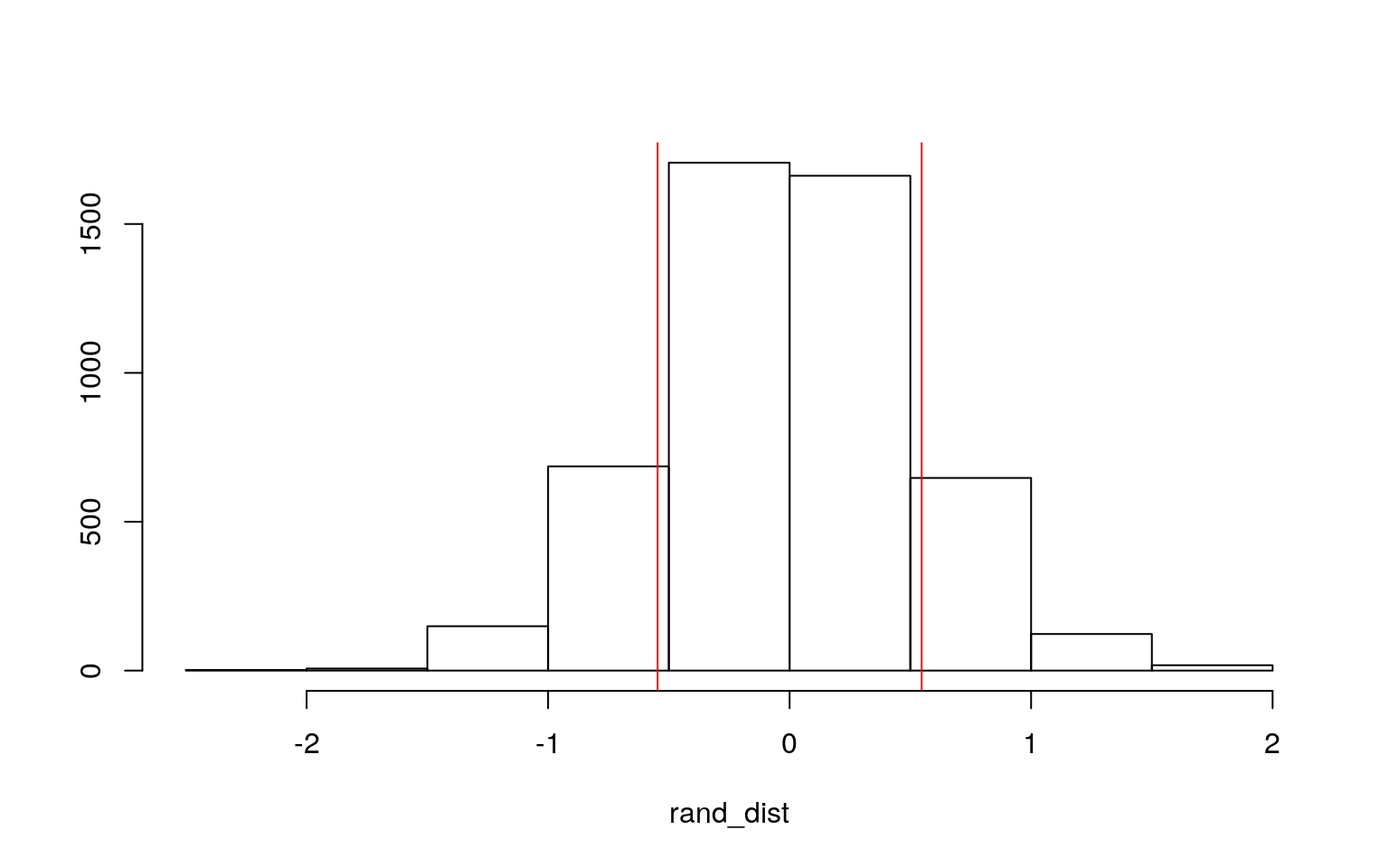
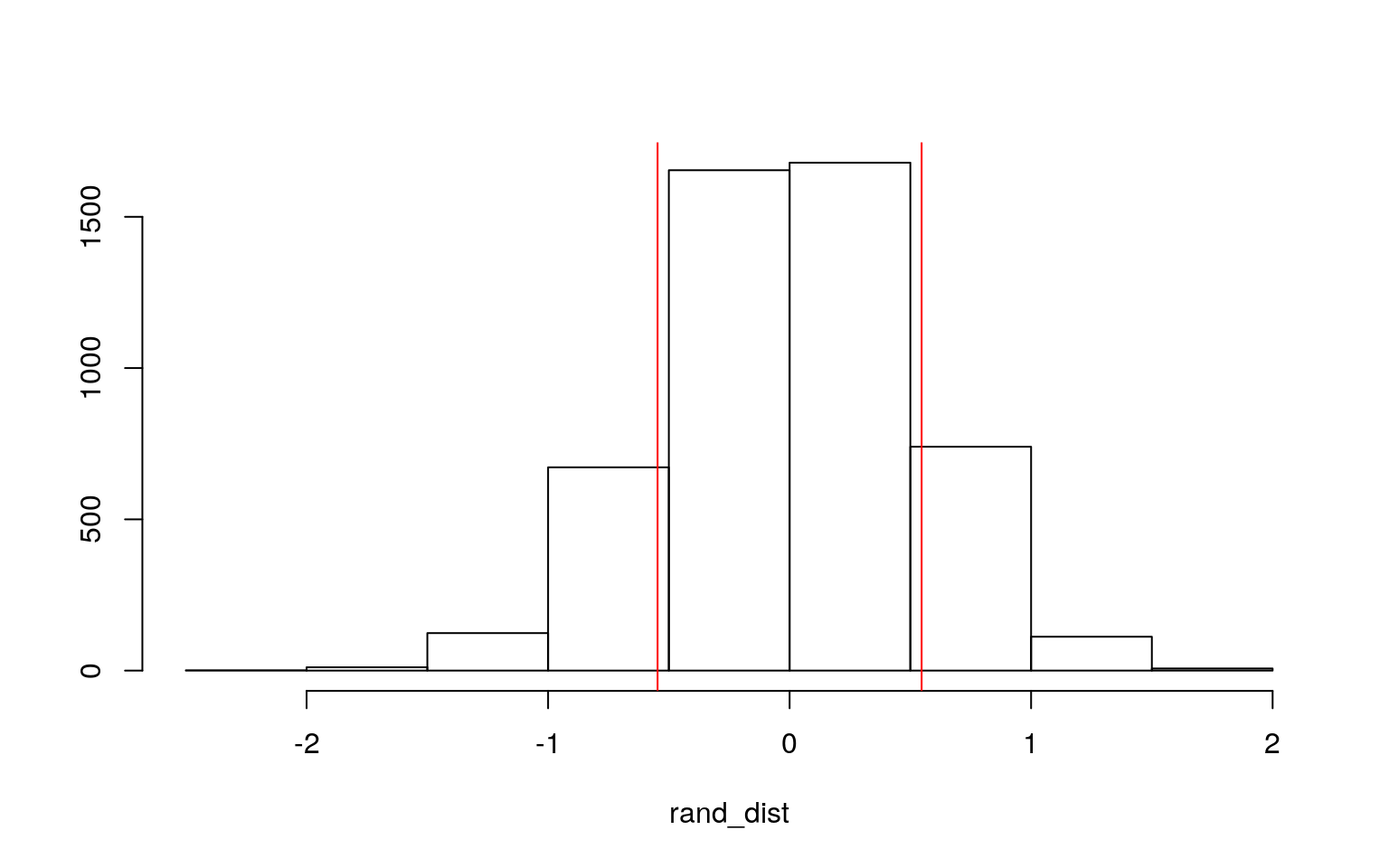
some message

diff --git a/project/project1/index.html b/project/project1/index.html
@@ -60,7 +60,7 @@
  
 <div class="blog-title">
           <h4>
-         January 1, 0001 
+         April 3, 2021 
             &nbsp;&nbsp;
             
           </h4>
@@ -74,9 +74,16 @@
 
 <pre class="r"><code>knitr::opts_chunk$set(echo = TRUE, eval = TRUE, fig.align = &quot;center&quot;, warning = F, message = F,
 tidy=TRUE, tidy.opts=list(width.cutoff=60), R.options=list(max.print=100))</code></pre>
-<p><strong>0. Introduction</strong></p>
-<p><em>For this project, I chose to work with two datasets. The first dataset is called netflix and it is composed of 50 days of my Netflix viewing history compiled into three columns: Date, Genre, and Run-time. They were acquired from the Netflix website through their download history function; however, the genres assigned to each of the observations were determined by the genre tags that Netflix auto-assigned them. The second dataset is called weather and it is composed of 50 days worth of temperature readings compiled into four columns: date, the maximum temperature of a day (Max), the minimum temperature of a day (Min), and the average temperature of a day (Daily_Average). This data was acquired from the National Weather Service Forecast Office’s online weather database. I thought these datasets were interesting because I think that the weather outside influences how likely you are to prefer to stay inside to watch movies and TV shows. Additionally, I always felt like someone who watches content according to their mood and the weather. When it’s rainy and cold outside, I think that I tend to watch more solemn themed movies and TV shows. By working with these datasets, I think I’ll be able to shed some light into my own viewing habits as they relate to the weather.</em></p>
-<p><strong>1. Tidying: Rearranging Wide/Long</strong></p>
+<p><br></p>
+<div id="introduction" class="section level4">
+<h4>0. Introduction</h4>
+<p><br></p>
+<p><strong>For this project, I chose to work with two datasets. The first dataset is called netflix and it is composed of 50 days of my Netflix viewing history compiled into three columns: Date, Genre, and Run-time. They were acquired from the Netflix website through their download history function; however, the genres assigned to each of the observations were determined by the genre tags that Netflix auto-assigned them. The second dataset is called weather and it is composed of 50 days worth of temperature readings compiled into four columns: date, the maximum temperature of a day (Max), the minimum temperature of a day (Min), and the average temperature of a day (Daily_Average). This data was acquired from the National Weather Service Forecast Office’s online weather database. I thought these datasets were interesting because I think that the weather outside influences how likely you are to prefer to stay inside to watch movies and TV shows. Additionally, I always felt like someone who watches content according to their mood and the weather. When it’s rainy and cold outside, I think that I tend to watch more solemn themed movies and TV shows. By working with these datasets, I think I’ll be able to shed some light into my own viewing habits as they relate to the weather.</strong></p>
+<p><br></p>
+</div>
+<div id="tidying-rearranging-widelong" class="section level4">
+<h4>1. Tidying: Rearranging Wide/Long</h4>
+<p><br></p>
 <pre class="r"><code>library(tidyverse)</code></pre>
 <pre><code>## ── Attaching packages ─────────────────────────────────────── tidyverse 1.3.0 ──</code></pre>
 <pre><code>## ✓ ggplot2 3.3.3     ✓ purrr   0.3.4
@@ -111,11 +118,21 @@ un_netflix &lt;- netflix %&gt;% pivot_wider(names_from=&quot;Type&quot;,values_f
 ## * Use `values_fn = length` to identify where the duplicates arise
 ## * Use `values_fn = {summary_fun}` to summarise duplicates</code></pre>
 <pre class="r"><code>netflix1 &lt;- un_netflix %&gt;% pivot_longer(-1, names_to=&quot;Type&quot;, values_to=&quot;Run-time&quot;) %&gt;% slice(-(2:10), (-(12:19)), (-(21:27)), (-(21:27)), (-(29:36)), (-(38:45)), (-(47:56)), (-(58:65)), (-(67:72)), (-(74:81)), (-(83:92)), (-(94:101)), (-(103:110)), (-(112:119)), (-(121:127)), (-(129:138)), (-(140:148)), (-(150:156)), (-(158:166)), (-(168:175)), (-(177:184)), (-(186:193)), (-(195:203)), (-(205:209)), (-(211:217)), (-(219:227)), (-(229:237)), (-(239:249)), (-(251:256)), (-(258:262)), (-(264:277)), (-(279:280)), (-(282:290)), (-(292:299)), (-(301:309)), (-(311:322)), (-(324:331)), (-(333:339)), (-(341:348)), (-(350:353)), (-(355:361)), (-(363:372)), (-(374:385)), (-(387:388)), (-(390:403)), (-(405:407)), (-(409:417)), (-(419:426)), (-(428:434)), (-(436:444)), (-(446:459))) %&gt;% select(-`Run-time`) %&gt;% rename(Genre = Type)</code></pre>
-<p><em>When I collected my datasets for the weather and my Netflix viewing history, I arranged them so that they would already be tidy once loaded into Rstudio. However, in order to demonstrate that I could tidy my datasets, I decided to untidy my netflix dataset (the untidy version called un_netflix in my RStudio environment) using the pivot_wider function. Once I untidied my netflix dataset, I then retidied it using pivot_longer and then select to take out all of the incomplete pieces from my untidy dataset (the newly tidied dataset is called netflix1 in my Rstudio environment). I also removed the variable Run-time from my netflix dataset because it was causing unnecessary complications within my tidying.</em></p>
-<p><strong>2. Joining/Merging</strong></p>
+<p><br></p>
+<p><strong>When I collected my datasets for the weather and my Netflix viewing history, I arranged them so that they would already be tidy once loaded into Rstudio. However, in order to demonstrate that I could tidy my datasets, I decided to untidy my netflix dataset (the untidy version called un_netflix in my RStudio environment) using the pivot_wider function. Once I untidied my netflix dataset, I then retidied it using pivot_longer and then select to take out all of the incomplete pieces from my untidy dataset (the newly tidied dataset is called netflix1 in my Rstudio environment). I also removed the variable Run-time from my netflix dataset because it was causing unnecessary complications within my tidying.</strong></p>
+<p><br></p>
+</div>
+<div id="joiningmerging" class="section level4">
+<h4>2. Joining/Merging</h4>
+<p><br></p>
 <pre class="r"><code>bigboy &lt;- weather1 %&gt;% left_join(netflix1, by=&quot;Date&quot;) %&gt;% na.omit()</code></pre>
-<p><em>For this part of the project, I decided to join my netflix dataset and my weather dataset by using their date columns as their joining variable. The reason I chose dates to be the joining variable is because all of the observations I had utilized unique dates. There were no repeating dates in either of my datasets. I designed it that way because it would help make the joining process of my datasets easier to do. Moreover, I also thought that it made sense to separate my variables of temperature (max, min, and daily average) and show/movie genre by date. Furthermore, I chose to do a left_join because it keeps all of the rows from the first dataset, weather, and then adds in date matches from the second dataset, netflix. And when there were any rows in the weather dataset that didn’t have a match from the netflix dataset, the left_join automatically gave them an NA value. This let me omit the NAs from my final joined dataset once they were combined.</em></p>
-<p><strong>3.Wrangling</strong></p>
+<p><br></p>
+<p><strong>For this part of the project, I decided to join my netflix dataset and my weather dataset by using their date columns as their joining variable. The reason I chose dates to be the joining variable is because all of the observations I had utilized unique dates. There were no repeating dates in either of my datasets. I designed it that way because it would help make the joining process of my datasets easier to do. Moreover, I also thought that it made sense to separate my variables of temperature (max, min, and daily average) and show/movie genre by date. Furthermore, I chose to do a left_join because it keeps all of the rows from the first dataset, weather, and then adds in date matches from the second dataset, netflix. And when there were any rows in the weather dataset that didn’t have a match from the netflix dataset, the left_join automatically gave them an NA value. This let me omit the NAs from my final joined dataset once they were combined.</strong></p>
+<p><br></p>
+</div>
+<div id="wrangling" class="section level4">
+<h4>3.Wrangling</h4>
+<p><br></p>
 <pre class="r"><code>bigboy %&gt;% group_by(Genre) %&gt;% summarize(overall_avg=mean(Daily_Average, na.rm=T))</code></pre>
 <pre><code>## `summarise()` ungrouping output (override with `.groups` argument)</code></pre>
 <pre><code>## # A tibble: 8 x 2
@@ -166,7 +183,9 @@ un_netflix &lt;- netflix %&gt;% pivot_wider(names_from=&quot;Type&quot;,values_f
 ## 4 12/15/20    62    31          46.5 Anime
 ## 5 12/1/20     65    22          43.5 Anime
 ## 6 1/11/21     50    28          39   Anime</code></pre>
-<p><em>The first code groups the data by genre and then creates an overall average temperature of the daily average temperatures for the cases that fall under the 8 different genres. The code following that one groups the data by genre. After that, I created a new column called Temp_difference which contained the maximum temperature of the day minus the minimum temperature of the day. Once I calculated the differences in temperature for each observation, I used summarize to calculate the median temperature differences for each of the 8 different genres. And for the last two pieces of code, I used group_by to group the data by genre. After that, I used filter to narrow down my observations to ones that fall under the anime genre. I chose the filter genre specification to be anime because it had the most counts in my dataset which meant that I consumed a lot of anime media. Once I filtered for anime, I also specified the filter to look at the average daily temperatures that were less than 50 or greater than 70. I wanted to see if I consumed anime often on days that were either considerably colder or hotter (since cold weather and hot weather force us to be indoors). Afterwards, I arranged the resultant data by descending average daily temperature. As it turns out, of the original 13 observations I have for watching anime, only 6 of them fall within my filter requirements for having a daily average temperature less than 50 or greater than 70. This indicates the weather coldness vs warmness doesn’t seem to affect my anime viewing habits based off of this filtration.</em></p>
+<p><br></p>
+<p><strong>The first code groups the data by genre and then creates an overall average temperature of the daily average temperatures for the cases that fall under the 8 different genres. The code following that one groups the data by genre. After that, I created a new column called Temp_difference which contained the maximum temperature of the day minus the minimum temperature of the day. Once I calculated the differences in temperature for each observation, I used summarize to calculate the median temperature differences for each of the 8 different genres. And for the last two pieces of code, I used group_by to group the data by genre. After that, I used filter to narrow down my observations to ones that fall under the anime genre. I chose the filter genre specification to be anime because it had the most counts in my dataset which meant that I consumed a lot of anime media. Once I filtered for anime, I also specified the filter to look at the average daily temperatures that were less than 50 or greater than 70. I wanted to see if I consumed anime often on days that were either considerably colder or hotter (since cold weather and hot weather force us to be indoors). Afterwards, I arranged the resultant data by descending average daily temperature. As it turns out, of the original 13 observations I have for watching anime, only 6 of them fall within my filter requirements for having a daily average temperature less than 50 or greater than 70. This indicates the weather coldness vs warmness doesn’t seem to affect my anime viewing habits based off of this filtration.</strong></p>
+<p><br></p>
 <pre class="r"><code>bigboy %&gt;% select(Date, Genre, Daily_Average) %&gt;% group_by(Genre) %&gt;% summarize(n_distinct(Daily_Average))</code></pre>
 <pre><code>## `summarise()` ungrouping output (override with `.groups` argument)</code></pre>
 <pre><code>## # A tibble: 8 x 2
@@ -196,8 +215,13 @@ un_netflix &lt;- netflix %&gt;% pivot_wider(names_from=&quot;Type&quot;,values_f
 ##   Genre   Max   Min
 ##   &lt;int&gt; &lt;int&gt; &lt;int&gt;
 ## 1     0     1     1</code></pre>
-<p><em>My first code selects the columns Date, Genre, and Daily_Average and makes them into their own subset. Afterwards, I used group_by to group the resulting data by genre. Once I grouped them all into the 8 different genres of my dataset, I used the summarize function to figure out how many distinct values of daily average temperatures there were in each genre. So of my 50 daily average temperatures in my dataset, only 3 of them are repeated temperatures and the rest are unique. My second line of code used group_by to group the data by genre. Once I grouped my data, I used summarize_at to calculate the standard deviations of the maximum and minimum daily temperatures for each genre group. I also used na.omit() because the genre crime returned back NAs for the standard deviations of the maximum and minimum temperatures. The reason why it returned back NAs is because there was only one observation with crime as its genre in my dataset. And finally, my last bit of code in this chunk reaffirms that one of the genres, crime, is the only genre with NAs for the maximum temperature and minimum daily temperatures. The rest of the genres did have actual values for their standard deviations.</em></p>
-<p><strong>4.Visualizing</strong></p>
+<p><br></p>
+<p><strong>My first code selects the columns Date, Genre, and Daily_Average and makes them into their own subset. Afterwards, I used group_by to group the resulting data by genre. Once I grouped them all into the 8 different genres of my dataset, I used the summarize function to figure out how many distinct values of daily average temperatures there were in each genre. So of my 50 daily average temperatures in my dataset, only 3 of them are repeated temperatures and the rest are unique. My second line of code used group_by to group the data by genre. Once I grouped my data, I used summarize_at to calculate the standard deviations of the maximum and minimum daily temperatures for each genre group. I also used na.omit() because the genre crime returned back NAs for the standard deviations of the maximum and minimum temperatures. The reason why it returned back NAs is because there was only one observation with crime as its genre in my dataset. And finally, my last bit of code in this chunk reaffirms that one of the genres, crime, is the only genre with NAs for the maximum temperature and minimum daily temperatures. The rest of the genres did have actual values for their standard deviations.</strong></p>
+<p><br></p>
+</div>
+<div id="visualizing" class="section level4">
+<h4>4.Visualizing</h4>
+<p><br></p>
 <pre class="r"><code>library(ggplot2)
 
 cormat2 &lt;- bigboy %&gt;% select_if(is.numeric) %&gt;% cor(use=&quot;pair&quot;)
@@ -211,9 +235,15 @@ tidycor2 %&gt;% ggplot(aes(var1, var2, fill=correlation)) + geom_tile() + geom_t
 <p><img src="../../project/project1_files/figure-html/unnamed-chunk-6-2.png" width="672" /></p>
 <pre class="r"><code>ggplot(bigboy, aes(x = Min, y = Max, color=Genre)) + geom_point() + geom_line() + scale_x_continuous(name = &quot;Min Temperature (Farenheit)&quot;, breaks = seq(0, 100, 10)) + scale_y_continuous(name = &quot;Max Temp (Farenheit)&quot;, breaks = seq(0, 100, 10))  + labs(title = &quot;Max Daily Temp over Min Daily Temp of Genre Observations&quot;) + theme(plot.title = element_text(hjust = 0.5))</code></pre>
 <p><img src="../../project/project1_files/figure-html/unnamed-chunk-6-3.png" width="672" /></p>
-<p><em>For my data visualization portion of the project, I made three different graphs. The first graph I made was a heatmap showing the correlations between my dataset’s numeric variables. The range of the correlation is rather limited as there isn’t really a large departure in terms of temperature values from the maximum, minimum, and daily average numbers (our range of correlations runs from 0.76 to 1). We can see that when a variable is matched to itself (such as maximum temperature to maximum temperature, minimum temperature to minimum temperature, etc), it is perfectly correlated. However, we start to see a little more variation as we pair up particular variables with different ones.The lowest correlation that we have on our heatmap is 0.76 between the maximum daily temperature and the minimum daily temperature. This makes sense when considering that the daily maximum and daily minimum temperatures do tend to vary notably on a day-to-day basis when accounting for the morning/night time shifts in sunlight and so on.</em></p>
-<p><em>My other two visuals focused more on presenting my data in a simple but clear manner. The first one that I made was a barchart comparing the average daily temperatures across the genres of content from my Netflix viewing data. I also included error bars to account for the multiple observations that some of my genres had (with crime being the genre with a single observation). With these chart, we can see that the error bars for the anime, cartoon, comedy, and drama genres all fell within the same margin for average daily temperature; meanwhile, the horror, reality, and suspense genres were all within the same margin for their average daily temperature error bars too. This is interesting because it implies that certain genres may be more frequently viewed at particular average daily temperatures. My second visual was a scatterplot that depicted the genres of all my observations by their minimum and maximum temperatures. The purpose of this plot was to see if there were any trends in the genres watched in relation to the maximum and minimum temperature of that day. For the most part, there doesn’t seem to be an overt relationship between genres and their maximum/minimum daily temperature other than generally high temperatures tend to have relatively higher lower temperatures. </em></p>
-<p><strong>5.Dimensionality Reduction</strong></p>
+<p><br></p>
+<p><strong>For my data visualization portion of the project, I made three different graphs. The first graph I made was a heatmap showing the correlations between my dataset’s numeric variables. The range of the correlation is rather limited as there isn’t really a large departure in terms of temperature values from the maximum, minimum, and daily average numbers (our range of correlations runs from 0.76 to 1). We can see that when a variable is matched to itself (such as maximum temperature to maximum temperature, minimum temperature to minimum temperature, etc), it is perfectly correlated. However, we start to see a little more variation as we pair up particular variables with different ones.The lowest correlation that we have on our heatmap is 0.76 between the maximum daily temperature and the minimum daily temperature. This makes sense when considering that the daily maximum and daily minimum temperatures do tend to vary notably on a day-to-day basis when accounting for the morning/night time shifts in sunlight and so on.</strong></p>
+<p><br></p>
+<p><strong>My other two visuals focused more on presenting my data in a simple but clear manner. The first one that I made was a barchart comparing the average daily temperatures across the genres of content from my Netflix viewing data. I also included error bars to account for the multiple observations that some of my genres had (with crime being the genre with a single observation). With these chart, we can see that the error bars for the anime, cartoon, comedy, and drama genres all fell within the same margin for average daily temperature; meanwhile, the horror, reality, and suspense genres were all within the same margin for their average daily temperature error bars too. This is interesting because it implies that certain genres may be more frequently viewed at particular average daily temperatures. My second visual was a scatterplot that depicted the genres of all my observations by their minimum and maximum temperatures. The purpose of this plot was to see if there were any trends in the genres watched in relation to the maximum and minimum temperature of that day. For the most part, there doesn’t seem to be an overt relationship between genres and their maximum/minimum daily temperature other than generally high temperatures tend to have relatively higher lower temperatures.</strong></p>
+<p><br></p>
+</div>
+<div id="dimensionality-reduction" class="section level4">
+<h4>5.Dimensionality Reduction</h4>
+<p><br></p>
 <pre class="r"><code>library(cluster)
 pam2&lt;-bigboy%&gt;%pam(k=2)</code></pre>
 <pre><code>## Warning in data.matrix(x): NAs introduced by coercion
@@ -289,7 +319,9 @@ summary(genre_pca, loadings=T)</code></pre>
 <pre class="r"><code>bigboy%&gt;%mutate(PC1=PCA[,1], PC2=PCA[,2])%&gt;%
   ggplot(aes(PC1,PC2,color=Genre))+geom_point()</code></pre>
 <p><img src="../../project/project1_files/figure-html/unnamed-chunk-7-3.png" width="672" /></p>
-<p><em>After having difficulties with the clustering, I decided to use PCA plotting in hopes of better luck. I knew that the clustering designated my data with 2 clusters so I kept this in mind when working on my PCA plot. In order to create my PCA plot, I first selected my numeric variables (Max, Min, Daily_Average) from my dataset and piped them through the eigen() function. Once I created a vector for this result (called eigen1), I then made a new vector called PCA where I piped my scaled selection of my numeric variables to eigen1$vectors. After that, I plotted a ggplot of my PC1 and PC2 values with genre as my point colors. After running the PCA on the numeric variables of my dataset, it appears that it was difficult to group the different genres based on the principal components calculated. My PC1 was comprised of general temperature statistics (standard deviation, variance, etc.) while my PC2 cluster was about the actual maximum, minimum, and average temperature values I had. I feel like this result isn’t too surprising because weather can vary largely on a day-to-day basis. Additionally, I only had observations of temperatures and netflix genres spanning 50 days. If I had a larger dataset with more observations, I think it would be much easier to figure out groupings for the principal components of the dataset. I also think doing this would fix this problem of having a relatively inconclusive PCA plot so that we have more an interpretation to formulate based on our ggplot of the PCA values.</em></p>
+<p><br></p>
+<p><strong>After having difficulties with the clustering, I decided to use PCA plotting in hopes of better luck. I knew that the clustering designated my data with 2 clusters so I kept this in mind when working on my PCA plot. In order to create my PCA plot, I first selected my numeric variables (Max, Min, Daily_Average) from my dataset and piped them through the eigen() function. Once I created a vector for this result (called eigen1), I then made a new vector called PCA where I piped my scaled selection of my numeric variables to eigen1$vectors. After that, I plotted a ggplot of my PC1 and PC2 values with genre as my point colors. After running the PCA on the numeric variables of my dataset, it appears that it was difficult to group the different genres based on the principal components calculated. My PC1 was comprised of general temperature statistics (standard deviation, variance, etc.) while my PC2 cluster was about the actual maximum, minimum, and average temperature values I had. I feel like this result isn’t too surprising because weather can vary largely on a day-to-day basis. Additionally, I only had observations of temperatures and netflix genres spanning 50 days. If I had a larger dataset with more observations, I think it would be much easier to figure out groupings for the principal components of the dataset. I also think doing this would fix this problem of having a relatively inconclusive PCA plot so that we have more an interpretation to formulate based on our ggplot of the PCA values.</strong></p>
+</div>
 
             
         <hr>         <div class="related-posts">

diff --git a/project/project2/index.html b/project/project2/index.html
@@ -60,7 +60,7 @@
  
 <div class="blog-title">
           <h4>
-         January 1, 0001 
+         May 4, 2021 
             &nbsp;&nbsp;
             
           </h4>
@@ -72,9 +72,15 @@
               
 
 
-<p>#0. Introduction</p>
+<div id="introduction" class="section level4">
+<h4>0. Introduction</h4>
+<p><br></p>
 <p><strong>For project 2, I decided to work with data derived from the popular MOBA (multiplayer online battle arena) League of Legends as developed by Riot. In this video game, players select unique champions to combat other players in team-based matches. My variables consist of the following: id (individual champions), origin (where the champion hails from in lore), class (the champions; playstyle), diff (the technical difficulty Riot rates playing a champion), hp (the champions’ level 1 base health), ad (the champions’ level 1 base attack damage), armor (the champions’ level 1 base armor), mr (the champions’ level 1 base magic resist), skins (the number of skins a champion has, excluding event exclusives), pr (the match pick rate of a champion), wr (the match win rate of a champion), and br (the match ban rate of a champion). In total, there are 155 champions in game, meaning that for this project, I have 155 observations.</strong></p>
-<p>#1. MANOVA Testing</p>
+<p><br></p>
+</div>
+<div id="manova-testing" class="section level4">
+<h4>1. MANOVA Testing</h4>
+<p><br></p>
 <pre class="r"><code>library(tidyverse)
 
 lol &lt;- read_csv(&quot;lol.csv&quot;)
@@ -420,10 +426,17 @@ box_m(DVs, group)</code></pre>
 ## &lt;dbl&gt; &lt;dbl&gt; &lt;dbl&gt; &lt;chr&gt;
 ## 1 NA NA 180 Box&#39;s M-test for Homogeneity of Covariance
 Matrices</code></pre>
+<p><br></p>
 <p><strong>I conducted a one-way MANOVA to figure out the effect of champion class (Assassin, Fighter, Mage, Marksman, Support, Tank) on eight dependent variables (health, armor, attack damage, magic resistance, skins, pick rate, win rate, and ban rate); I found that there were significant differences found among the champion classes for at least one of the dependent variables: Pillai trace = 1.3675, approximate F = 6.8233, and then my p-value of &lt;2.2e-16 was less than the general significance value of 0.05. In total, I ran 1 MANOVA, 8 univariate ANOVAs, and 120 post-hoc tests. The probability that I made at least one Type-I error is 0.9986623. Additionally, in order to adjust my significance level to keep the Type-I error rate at 0.05, I used the Bonferroni correction and calculated 0.05/129 to get a new significance level of 0.0003875969.</strong></p>
+<p><br></p>
 <p><strong>In regard to significant differences, after implementing my Bonferroni corrected level of significance to my tests, I found that 5 of my post-hoc tests had several significant differences crop up. For HP and Class, there was significant difference in the following classes: Mage &amp; Assassin, Mage &amp; Fighter, Support &amp; Fighter, and Tank &amp; Mage. For AD and Class, there was significant difference in the following classes: Mage &amp; Assassin, Support &amp; Assassin, Mage &amp; Fighter, Support &amp; Fighter, Marksman &amp; Mage, Support &amp; Mage, Tank &amp; Support, Tank &amp; Mage, and Marksman &amp; Fighter. For Armor and Class,there was significant difference in the following classes: Mage &amp; Assassin, Mage &amp; Fighter, Marksman &amp; Fighter, Support &amp; Mage, Tank &amp; Mage, Support &amp; Marksman, and Tank &amp; Marksman. For MR and Class, there was significant difference in the following classes: Mage &amp; Assassin, Marksman &amp; Assassin, Mage &amp; Fighter, Marksman &amp; Fighter, and Tank &amp; Marksman. And lastly, for PR and Class, there was only a significant difference detected between Marksman &amp; Mage.</strong></p>
+<p><br></p>
 <p><strong>Finally, there were several MANOVA assumptions to consider. Of the ones I thought were important, my dataset definitely violated the random/independent samples as each observation was derived from the full set of champions that Riot offers to players. For the multivariate normality of DVs, all of them had p-values that rejected the null hypothesis of normality. And when attempting to test for homogeneity of covariance, I found that those were all violated as well.Since MANOVA assumptions are restrictive, it’s likely that I violated all, if not most, of them.</strong></p>
-<p>#2. Randomization Testing</p>
+<p><br></p>
+</div>
+<div id="randomization-testing" class="section level4">
+<h4>2. Randomization Testing</h4>
+<p><br></p>
 <pre class="r"><code>library(tidyverse)
 
 lol %&gt;% filter(class %in% c(&quot;Marksman&quot;, &quot;Support&quot;)) %&gt;% group_by(class) %&gt;% summarize(means_norm=mean(mr))%&gt;%summarize(`mean_diff`=diff(means_norm))</code></pre>
@@ -439,9 +452,14 @@ rand_dist[i]&lt;-mean(boo[boo$class==&quot;Marksman&quot;,]$mr)-
 {hist(rand_dist,main=&quot;&quot;,ylab=&quot;&quot;); abline(v = c(-0.5466667       , 0.5466667),col=&quot;red&quot;)}</code></pre>
 <p><img src="../../project/project2_files/figure-html/unnamed-chunk-2-1.png" width="768" style="display: block; margin: auto;" /></p>
 <pre class="r"><code>mean(rand_dist&gt;0.5466667             | rand_dist&lt; -0.5466667)</code></pre>
-<pre><code>## [1] 0.2816</code></pre>
+<pre><code>## [1] 0.2802</code></pre>
+<p><br></p>
 <p><strong>After randomly sampling from my dataset 5000 times, I created a distribution of the mean differences between Marksman and Support classes’ mean magic resistance (mr). My null hypothesis is that there is no difference between the mean differences for these two classes while my alternative hypothesis is that there is a difference between these two classes’ mean differences. After generating the distribution of mean differences, we know that the actual mean difference is plotted at -0.5466667 and 0.5466667. Additionally, the likelihood that we’d get something that’s greater than or less than my actual mean diff of 0.5466667 by chance is 0.2812 or 28.12%. Therefore, I can’t reject my null hypothesis because there’s only a 28.12% chance that we’d get a mean difference as extreme as 0.5466667 for my mean differences if there was no true mean difference in my population.</strong></p>
-<p>#3. Linear Regression Model</p>
+<p><br></p>
+</div>
+<div id="linear-regression-model" class="section level4">
+<h4>3. Linear Regression Model</h4>
+<p><br></p>
 <pre class="r"><code>library(lmtest)
 library(sandwich)
 
@@ -529,10 +547,17 @@ coeftest(boba, vcov = vcovHC(boba))[,1:4]</code></pre>
 2.583293e-01
 ## diffModerate:ad_c -0.2123342 0.11874693 -1.7881236
 7.578828e-02</code></pre>
+<p><br></p>
 <p><strong>After mean-centering my variable ad, I found that the mean/predicted pick rate for hard difficulty champions with an average attack damage is 5.2497. Low difficulty champions with average attack damage have a predicted pick rate that is 0.6325 lower than hard difficulty champions with average attack damage. Moderate difficulty champions with average attack damage have a predicted pick rate that is 0.6183 greater than hard difficulty champions with average attack damage. For every 1 unit increase in attack damage, predicted pick rate went up 0.1884 for hard difficulty champions. The slope of attack damage on pick rate for low difficulty champions was -0.1299 while the slope of attack damage on pick rate for moderate difficulty champions was -0.2123.</strong></p>
+<p><br></p>
 <p><strong>The proportion of variation (my multiple R-squared value) on pick rate that my model explains is only 0.02146 or 2.14%! This means that my variables of attack damage and champion difficulty only influence pick rate barely (the association is not high enough to assume relationship). To check for normality, I ran a ks. test and found that my data was violating normality because my calculated p-value much less (0.00256) than my significant one of 0.05. For linearity, I created a residual and fitvals plot that displayed a strange pattern on the right end, indicating that linearity was not met. And finally, I ran a bp test for homoskedasticity and found that it wasn’t violated since my p-value 0.1892 was greater than 0.05, meaning that I didn’t reject my null hypothesis that my assumption was met.</strong></p>
+<p><br></p>
 <p><strong>When I compare my original regression’s standard errors with my new robust standard errors, I see that my robust standard errors are smaller across the board than my original standard errors. As a result of this, the robust standard errors made my t-values somewhat larger across the board while my p-values became slightly smaller. Overall, this difference between my original standard errors and robust standard errors is fairly minimal. This indicates that my p-values are not significant even with the adjusted standard errors.</strong></p>
-<p>#4. Linear Regression Modeling with Bootstrapped Standard Errors</p>
+<p><br></p>
+</div>
+<div id="linear-regression-modeling-with-bootstrapped-standard-errors" class="section level4">
+<h4>4. Linear Regression Modeling with Bootstrapped Standard Errors</h4>
+<p><br></p>
 <pre class="r"><code>#Resampling Observations 
 boot_dat&lt;- sample_frac(lol3, replace=T)
 
@@ -546,11 +571,17 @@ samp_distn&lt;-replicate(5000, {
 samp_distn %&gt;% t %&gt;% as.data.frame %&gt;% summarize_all(sd)</code></pre>
 <pre><code>## (Intercept) ad_c diffLow diffModerate ad_c:diffLow
 ad_c:diffModerate
-## 1 0.4524459 0.08715125 0.6148088 0.7090885 0.1087763
-0.1128673</code></pre>
+## 1 0.4438319 0.08734419 0.6284594 0.7032187 0.1103847
+0.1139793</code></pre>
+<p><br></p>
 <p><strong>After sampling from my observations 5000 times with replacement, I created a new linear regression model with the interaction included. Afterwards, I used this model to calculate my new bootstrapped standard errors. My bootstrapped SEs resulted in the following: for ad_c, SE was 0.087 (original SE: 0.168; robust SE: 0.093); for diffLow, SE was 0.611 (original SE: 1.21; robust SE: 0.635); for diffModerate, SE was 0.695 (original SE: 0.892; robust SE: 0.712); for the interaction between ad_c and diffLow, SE was 0.101 (original SE: 0.232; robust SE: 0.115); and for the interaction between ad_c and diffModerate, SE was 0.114 (original SE: 0.182; robust SE: 0.119).</strong></p>
+<p><br></p>
 <p><strong>Overall, it appears that my bootstrapped SEs were lower than both my original and robust SEs; however, compared to the original SEs, my robust SEs were closer in value to my bootstrapped SEs. Additionally, since my bootstrapped SEs are close to my robust SEs in value, it’s likely that my bootstrapped p-values are still not significant.</strong></p>
-<p>#5. Logistic Regression Modeling with Binary Variables – Small-scale</p>
+<p><br></p>
+</div>
+<div id="logistic-regression-modeling-with-binary-variables-small-scale" class="section level4">
+<h4>5. Logistic Regression Modeling with Binary Variables – Small-scale</h4>
+<p><br></p>
 <pre class="r"><code>#Creation of working dataset &amp; ROC/AUC
 lol4 &lt;- lol %&gt;% select(pr, mr, class) %&gt;% mutate(y=ifelse(class==&quot;Assassin&quot;,1,0))
 
@@ -599,9 +630,15 @@ table(predict=as.numeric(moldavite&gt;.5),truth=quartz$y) %&gt;% addmargins</cod
 <pre class="r"><code>#Density plot
 lol4 %&gt;% ggplot() + geom_density(aes(logodds,color=class,fill=class), alpha=.4) + theme(legend.position=c(.90,.50)) + geom_vline(xintercept=0) + xlab(&quot;predictor (logodds)&quot;)</code></pre>
 <p><img src="../../project/project2_files/figure-html/unnamed-chunk-5-2.png" width="768" style="display: block; margin: auto;" /></p>
+<p><br></p>
 <p><strong>After running a logistic regression on champion class against pick rate and magic resistance (with 1 representing Assassins while 0 represents other champion classes), I found that the pick rate for other champions was 0.053947 more than the Assassin reference group. Additionally, I also found that the magic resistance for other champions was 0.626834 more than the Assassin reference group. After creating an ROC plot, I calculated my AUC value to be 0.7047851 which is on the lower end of fair. When looking at my ROC plot in more depth, I can see that the area underneath it (equating to my AUC of 70.5%) represents how well we’re predicting assassin classes from magic resistance and pick rate. As for my density plot, we can see that most of the predictor values are less than 0 meaning that there were many false negatives (the proportion of assassin champions that were predicted to be non-assassin classes) with lots of overlapping classes based on the predictors of magic resistance and pick rate.</strong></p>
+<p><br></p>
 <p><strong>However, when calculating from model’s sensitivity (true positive rate) from the confusion matrix, I found it to be 0.111 (11.1%). This means that my model’s probability of detecting an assassin character based on pick rate and magic resistance is 11.1%. My model’s specificity (true negative rate) was found to be 0.993 (99.3%). This means that my model’s probability of negatively classifying an Assassin champion based on pick rate and magic resistance is 99.3%. And finally, my model’s precision was found to be 0.667 (66.7%). This means that the proportion of champions classified as Assassins and actually are Assassins is 66.7%.</strong></p>
-<p>#6 Logistic Regression Modeling with Binary Variables – Large-scale</p>
+<p><br></p>
+</div>
+<div id="logistic-regression-modeling-with-binary-variables-large-scale" class="section level4">
+<h4>6 Logistic Regression Modeling with Binary Variables – Large-scale</h4>
+<p><br></p>
 <pre class="r"><code>library(glmnet)
 
 lol9 &lt;-lol %&gt;% na.omit()
@@ -665,8 +702,11 @@ for(i in 1:k){
 summarize_all(diags,mean)</code></pre>
 <pre><code>##         acc sens     spec ppv      auc
 ## 1 0.8770833 0.15 0.978022 NaN 0.785989</code></pre>
+<p><br></p>
 <p><strong>I created a glm model for my data called please where I used all of my numeric values (excluding id, origin, difficulty, and the original class categories; they were creating chaos with the reading) As a result, I computed a model accuracy of 0.883 (88.3%), sensitivity of 0.111 (11.1%), specificity of 0.985 (98.5%), precision of 0.5 (50%), and an AUC of 0.831 (83.1%). This means that my model’s accuracy of detecting an Assassin character based on hp, ad, armor, mr, pr, wr, and br is 88.3%. Additionally, my model’s probability of detecting an assassin based on hp, ad, armor, mr, skins, pr, wr, and br is 11.1%. Moreover, my model’s probability of negatively classifying an Assassin champion based on those aforementioned variables is 98.5%. In regard to precision, my model’s precision was found to be 50% meaning that the likelihood of it properly categorizing an Assassin champion is 50%. Despite this, my AUC value was a little more than fair at 83.1%, meaning that it performs somewhat fairly.</strong></p>
+<p><br></p>
 <p><strong>I then performed a 10-fold CV of the same variables (model variable name was adjusted for ease, but the same binary nature of the variable remained) from my glm model and found that my out-of-sample values were 0.877 (87.7%) for accuracy, 0.15 (15%) for sensitivity, 0.978 (97.8%) for specificity, NaN for precision, and then 0.786 (78.6%) for AUC. Compared to my in-sample values, these values were lower for sensitivity, specificity, and AUC; but also, higher for accuracy, sensitivity. However, in general, these differences are very small. As a result, it seems like my model is overfitting.</strong></p>
+<p><br></p>
 <pre class="r"><code>#LASSO
 set.seed(1234)
 lol12&lt;-lol%&gt;% na.omit() %&gt;% select(-id) %&gt;% mutate(class=ifelse(class==&quot;Assassin&quot;,1,0))
@@ -767,7 +807,9 @@ for(i in 1:k){
 diags%&gt;%summarize_all(mean)</code></pre>
 <pre><code>##         acc sens      spec ppv       auc
 ## 1 0.9029167  0.4 0.9708791 NaN 0.9104701</code></pre>
+<p><br></p>
 <p><strong>And finally, I performed a LASSO using lambda and found that my the variables that remained were Ixtal origin, Unknown origin, low difficulty, moderate difficulty, magic resistance, and ban rate. Once I had these figured out, I ran a 10-fold CV LASSO using only those variables and my Assassin class predictor. In conclusion, I ended up with an accuracy of 0.903 (90.3%), a sensitivity of 0.4 (40%), a specificity of 0.971 (97.1%), a precision of NaN, and an AUC of 0.910 (91%). Compared to the full model logistic regression’s 10-fold CV above, the AUC, accuracy, and sensitivity values were greater: for AUC, the LASSO 10-fold had a 91% while the full model 10-fold CV has a 78.6%; for the accuracy, the LASSO 10-fold CV had 91% while the full model 10-fold CV had a 87.7%; for sensitivity, the LASSO 10-fold CV had 40% while the full model’s 10-fold CV had 15%. And lastly, for specificity, both models had similar values with the LASSO 10-fold model’s specificity at 97.1% while the full model 10-fold CV’s was at 97.8%. However, even with these changes, we can still see that the LASSO model with adjusted predictors is still overfitting since the true positive rate (sensitivity; meaning the proportion of assassins correctly classified) is only 40% and the true negative rate (specificity; meaning the proportion of non-assassins correctly classified) is 97.1%. So while our AUC may be greater, the other values are still not the best.</strong></p>
+</div>
 
             
         <hr>         <div class="related-posts">

diff --git a/project/index.html b/project/index.html
@@ -59,7 +59,7 @@
               <div class="row">
                 <div class="col-sm-4 col-md-4 col-lg-4">
                   <h5 style="text-align: right">
-                    January 1, 0001
+                    May 4, 2021
                   </h5>
                  </div>
                  <div class="col-sm-8 col-md-8 col-lg-8">
@@ -72,7 +72,7 @@
               <div class="row">
                 <div class="col-sm-4 col-md-4 col-lg-4">
                   <h5 style="text-align: right">
-                    January 1, 0001
+                    April 3, 2021
                   </h5>
                  </div>
                  <div class="col-sm-8 col-md-8 col-lg-8">
